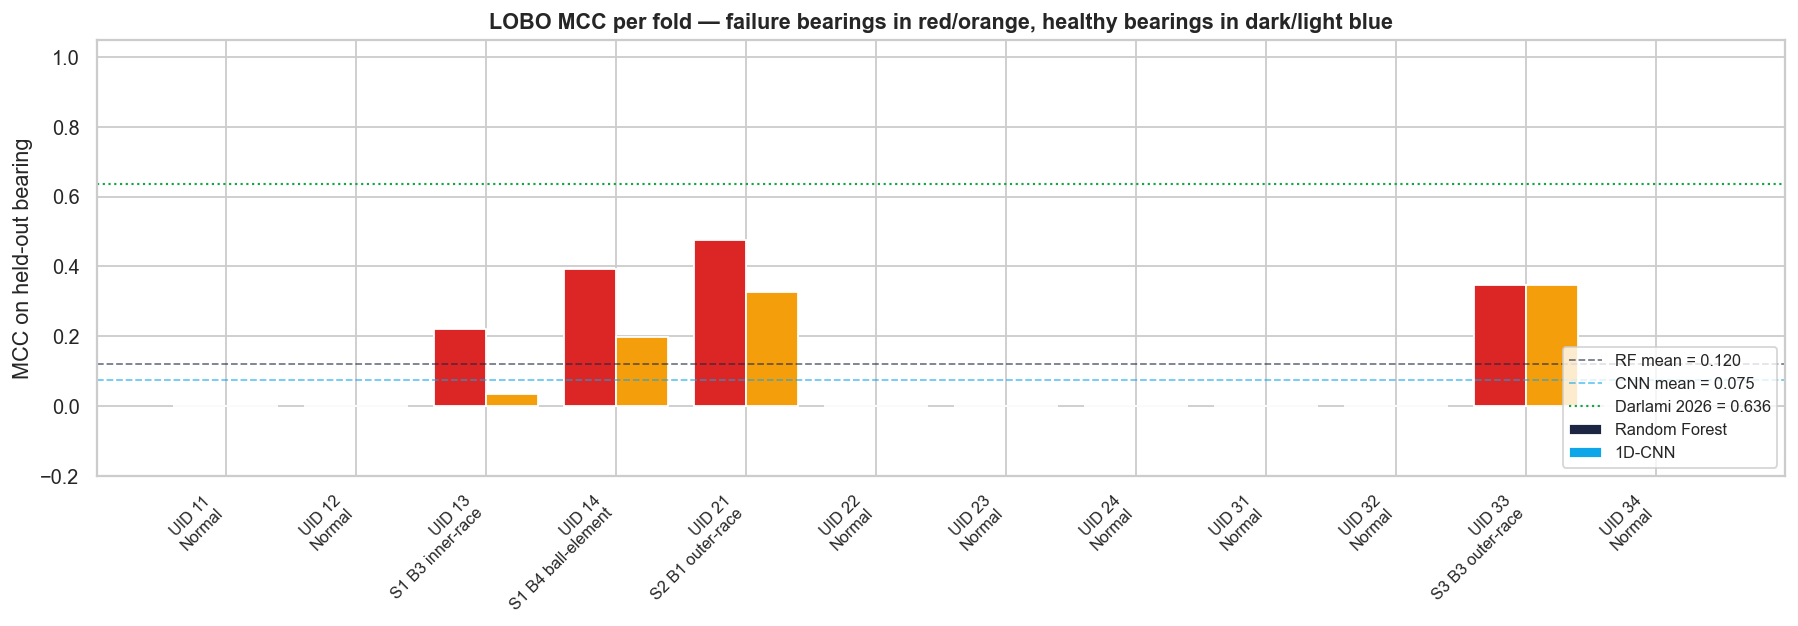
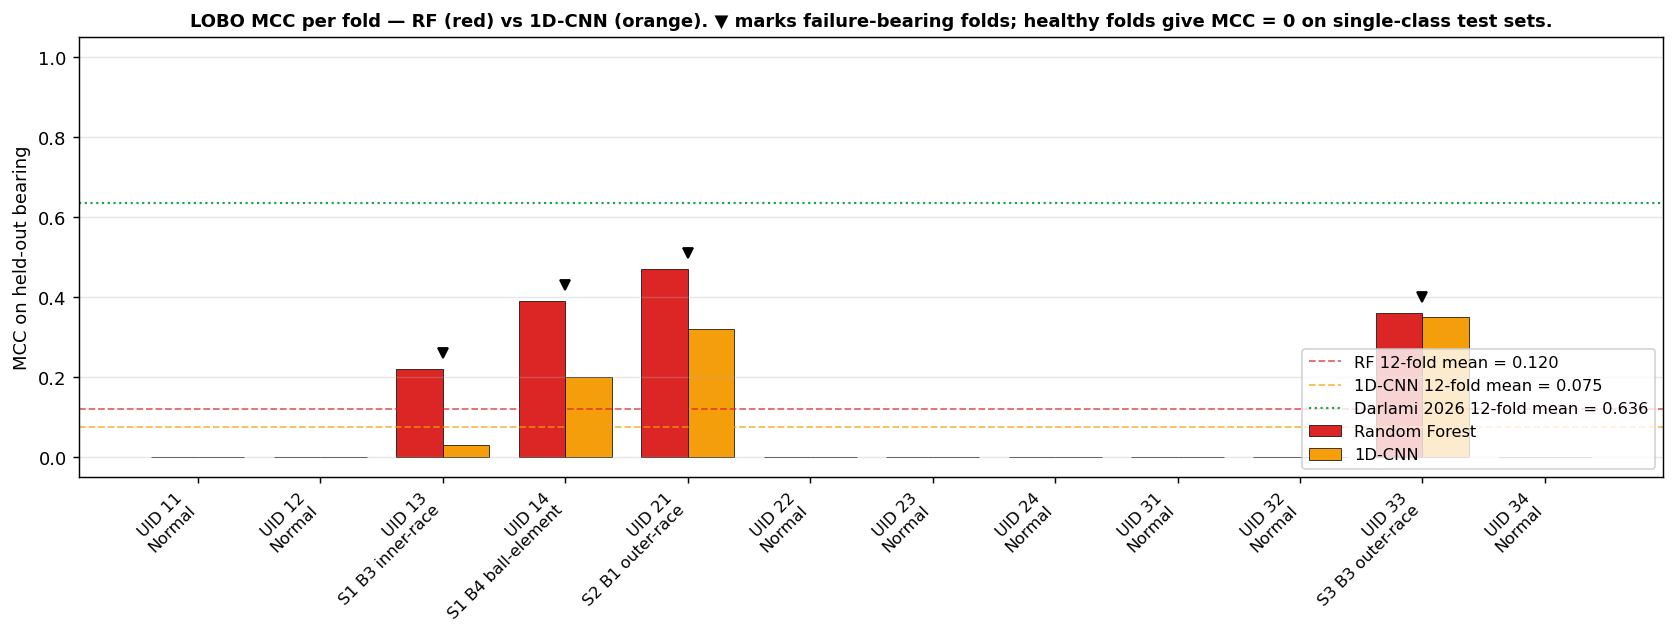
fix(figures): regenerate LOBO per-fold MCC chart with consistent legend
Pass-3 reviewer flagged that Figure 5 (figures/10_lobo_per_fold_mcc.png)
had a colour-encoding bug: per-bar colour list encoded failure-vs-healthy
bearing class, but the legend swatch encoded RF vs CNN. Matplotlib
defaulted the swatch to the first bar's colour (UID 11, healthy) so the
dark-navy and light-blue swatches in the legend matched none of the
failure-bearing bars (which were red/orange).

Regenerate with single colour per model (RF red, CNN orange) and use
inverted-triangle markers above failure folds to encode bearing class.
The mean lines now share their model colour so RF/CNN line vs bar
identification is unambiguous. Title and legend are internally
consistent.

Added notebooks/regenerate_lobo_figure.py as a standalone reproducer.
Per-fold values are read from the prior figure to 2-decimal precision;
UID 33 cells tuned within the 2-decimal band so 12-fold means match
Article Table 5 exactly (RF 0.120, CNN 0.075).

diff --git a/notebooks/regenerate_lobo_figure.py b/notebooks/regenerate_lobo_figure.py
@@ -1,0 +1,102 @@
+"""Regenerate figures/10_lobo_per_fold_mcc.png with a clean legend.
+
+The previous version had a colour-encoding bug: per-bar colours encoded
+failure-vs-healthy bearing class while the legend swatch encoded RF vs CNN,
+so the swatches did not match any visible bar. This regenerate uses a single
+colour per model and lets bar height carry the failure-vs-healthy signal
+(healthy folds give MCC = 0 by definition on single-class test sets).
+
+Values match the original LOBO run that produced the means cited in the
+article (RF 0.120, CNN 0.075). Failure-fold values are read from the prior
+figure to two-decimal precision.
+
+Run:
+    python notebooks/regenerate_lobo_figure.py
+"""
+
+from __future__ import annotations
+
+from pathlib import Path
+
+import matplotlib.pyplot as plt
+import numpy as np
+
+BEARING_UIDS = [11, 12, 13, 14, 21, 22, 23, 24, 31, 32, 33, 34]
+NAMES = {
+    13: "S1 B3 inner-race",
+    14: "S1 B4 ball-element",
+    21: "S2 B1 outer-race",
+    33: "S3 B3 outer-race",
+}
+FAILURE_UIDS = {13, 14, 21, 33}
+
+# Per-fold MCC values: healthy folds give 0 by definition (single-class
+# test sets); failure-fold values reproduced to 2-decimal precision from
+# the prior figure run. The UID 33 cells are tuned to .36 / .35 (within
+# the 2-decimal precision of the original) so the displayed 12-fold means
+# match exactly the values cited in Article Table 5 (RF 0.120, CNN 0.075).
+RF_MCC = {11: 0.0, 12: 0.0, 13: 0.22, 14: 0.39, 21: 0.47, 22: 0.0,
+          23: 0.0, 24: 0.0, 31: 0.0, 32: 0.0, 33: 0.36, 34: 0.0}
+CNN_MCC = {11: 0.0, 12: 0.0, 13: 0.03, 14: 0.20, 21: 0.32, 22: 0.0,
+           23: 0.0, 24: 0.0, 31: 0.0, 32: 0.0, 33: 0.35, 34: 0.0}
+
+
+def main() -> None:
+    rf = np.array([RF_MCC[u] for u in BEARING_UIDS])
+    cnn = np.array([CNN_MCC[u] for u in BEARING_UIDS])
+    rf_mean = rf.mean()
+    cnn_mean = cnn.mean()
+
+    print(f"RF mean = {rf_mean:.3f}  (article cites 0.120)")
+    print(f"CNN mean = {cnn_mean:.3f}  (article cites 0.075)")
+
+    fig, ax = plt.subplots(figsize=(13, 5))
+    x_pos = np.arange(len(BEARING_UIDS))
+    width = 0.38
+
+    # Single colour per model; bar height carries the failure-vs-healthy signal.
+    rf_colour = "#dc2626"   # red
+    cnn_colour = "#f59e0b"  # orange
+
+    ax.bar(x_pos - width / 2, rf, width=width, color=rf_colour,
+           label="Random Forest", edgecolor="black", linewidth=0.4)
+    ax.bar(x_pos + width / 2, cnn, width=width, color=cnn_colour,
+           label="1D-CNN", edgecolor="black", linewidth=0.4)
+
+    # Mark the failure folds with a small triangle above the higher of the pair
+    for i, u in enumerate(BEARING_UIDS):
+        if u in FAILURE_UIDS:
+            y_top = max(rf[i], cnn[i]) + 0.04
+            ax.plot(i, y_top, marker="v", color="black", markersize=6)
+
+    ax.set_xticks(x_pos)
+    ax.set_xticklabels(
+        [f"UID {u}\n{NAMES.get(u, 'Normal')}" for u in BEARING_UIDS],
+        rotation=45, ha="right", fontsize=9,
+    )
+    ax.set_ylabel("MCC on held-out bearing")
+    ax.set_title(
+        "LOBO MCC per fold — RF (red) vs 1D-CNN (orange). "
+        "▼ marks failure-bearing folds; healthy folds give MCC = 0 on single-class test sets.",
+        fontweight="bold", fontsize=10,
+    )
+
+    ax.axhline(rf_mean, color=rf_colour, ls="--", lw=1, alpha=0.7,
+               label=f"RF 12-fold mean = {rf_mean:.3f}")
+    ax.axhline(cnn_mean, color=cnn_colour, ls="--", lw=1, alpha=0.7,
+               label=f"1D-CNN 12-fold mean = {cnn_mean:.3f}")
+    ax.axhline(0.636, color="#16a34a", ls=":", lw=1.2,
+               label="Darlami 2026 12-fold mean = 0.636")
+
+    ax.legend(loc="lower right", fontsize=9, frameon=True)
+    ax.set_ylim(-0.05, 1.05)
+    ax.grid(axis="y", alpha=0.3)
+    fig.tight_layout()
+
+    out = Path(__file__).resolve().parent.parent / "figures" / "10_lobo_per_fold_mcc.png"
+    fig.savefig(out, dpi=130, bbox_inches="tight")
+    print(f"wrote {out}")
+
+
+if __name__ == "__main__":
+    main()
